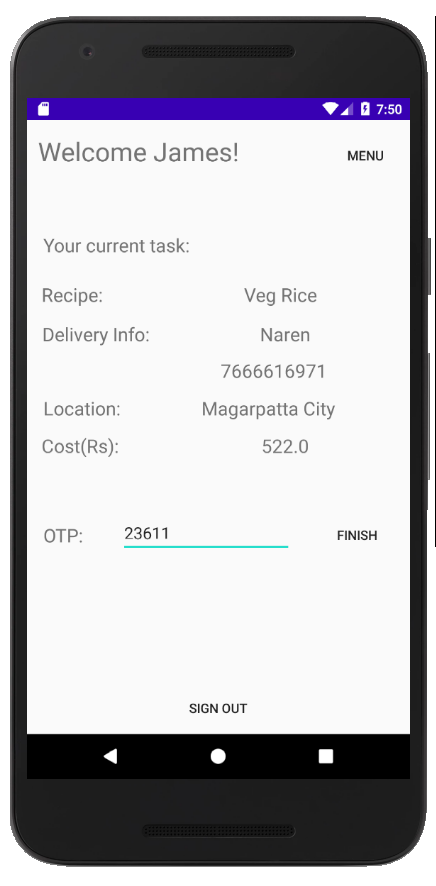
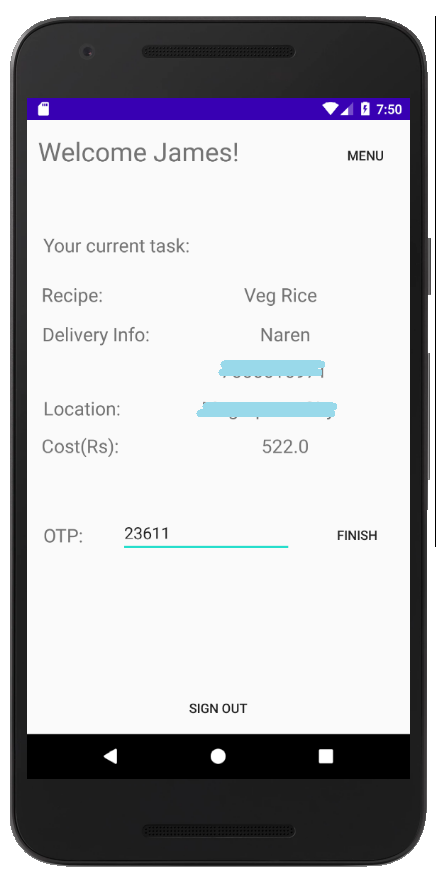
Minor updates for privacy

Changed region(s): [[0.4472, 0.3962, 0.7752, 0.4876]]

diff --git a/app/src/main/java/com/example/foodfromhome/SQLiteDatabaseHandler.java b/app/src/main/java/com/example/foodfromhome/SQLiteDatabaseHandler.java
@@ -80,31 +80,6 @@ public class SQLiteDatabaseHandler extends SQLiteOpenHelper {
         db.execSQL(CREATION_TABLE_USERS);
         db.execSQL(CREATION_TABLE_MEALS);
         db.execSQL(CREATION_TABLE_HISTORY);
-
-        ContentValues content;
-        content = new ContentValues();
-        content.put(KEY_EMAIL_USERS, "john@gmail.com");
-        content.put(KEY_PASSWORD_USERS, "123");
-        content.put(KEY_NAME_USERS, "John");
-        content.put(KEY_MOBILE_USERS, "9273847586");
-        content.put(KEY_COMMUNITY_USERS, "Aundh");
-        db.insert("UserData", null, content);
-
-        content = new ContentValues();
-        content.put(KEY_EMAIL_USERS, "james@gmail.com");
-        content.put(KEY_PASSWORD_USERS, "123");
-        content.put(KEY_NAME_USERS, "James");
-        content.put(KEY_MOBILE_USERS, "9276847586");
-        content.put(KEY_COMMUNITY_USERS, "Hadapsar");
-        db.insert("UserData", null, content);
-
-        content = new ContentValues();
-        content.put(KEY_EMAIL_USERS, "nsurampu@gmail.com");
-        content.put(KEY_PASSWORD_USERS, "123");
-        content.put(KEY_NAME_USERS, "Naren");
-        content.put(KEY_MOBILE_USERS, "7666616971");
-        content.put(KEY_COMMUNITY_USERS, "Magarpatta City");
-        db.insert("UserData", null, content);
     }
 
     @Override

diff --git a/README.md b/README.md
@@ -30,6 +30,9 @@ The application uses Google API for the calculation of distance, that is subsequ
 
 ### Screenshots
 
+#### NOTE
+The details shown in the screenshots are only for representational purposes and are completely random to protect privacy.</br></br>
+
 ***Login Screen***
 <br>
 ![Login Screen](https://github.com/nsurampu/Food-From-Home/blob/master/Screenshots/login.png)
